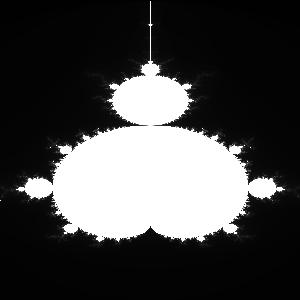
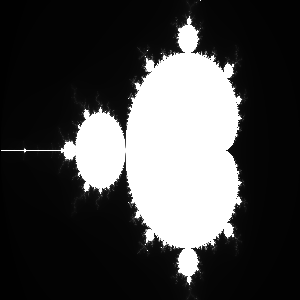
reset all images

Changed region(s): [[0.03, 0.03, 0.96, 0.96]]

diff --git a/src/HW8MandelbrotSet/HW8MandelbrotSet.java b/src/HW8MandelbrotSet/HW8MandelbrotSet.java
@@ -55,10 +55,6 @@ public class HW8MandelbrotSet {
                 int[][] img = new int[height][width]; //[i][j]
 
                 System.out.println("Rendering...");
-                x1 = -2;
-                y1 = 1;
-                x2 = 1;
-                y2 = -1;
 
                 //full image
                 ComplexNumber gen1;
@@ -66,8 +62,10 @@ public class HW8MandelbrotSet {
                     for(double j = 0; j < height; j++) {
 
                         //linear interpolation done depending on the position
-                        //real = 𝑥 = (𝑥1 + s) * (𝑥2 − 𝑥1)
-                        //imag = y = (y1 + s) * (y2 − y1)
+                        x1 = -2;
+                        y1 = 1;
+                        x2 = 1;
+                        y2 = -1;
                         double sx = i/width;
                         double sy = j/width;
                         double real = lerp(x1, x2, sx);
@@ -91,13 +89,17 @@ public class HW8MandelbrotSet {
                     for(double j = 0; j < height; j++) {
 
                         //linear interpolation done depending on the position
+                        x1 = -2;
+                        y1 = 1;
+                        x2 = 1;
+                        y2 = -1;
                         double sx = i/width;
-                        double sy = j/height;
+                        double sy = j/width;
                         double real = lerp(x1, x2, sx);
                         double imag = lerp(y1, y2, sy);
 
-                        gen2 = new ComplexNumber(real, imag); //~1.46 = 1, ~0.37 = 81, 0.35 = 255
-                        img[(int)i][(int)j] = Mandelbrot.inSet(gen2);
+                        gen1 = new ComplexNumber(real, imag); //~1.46 = 1, ~0.37 = 81, 0.35 = 255
+                        img[(int)j][(int)i] = Mandelbrot.inSet(gen1);
                     }
                 }
                 try {
@@ -114,13 +116,17 @@ public class HW8MandelbrotSet {
                     for(double j = 0; j < height; j++) {
 
                         //linear interpolation done depending on the position
+                        x1 = -2;
+                        y1 = 1;
+                        x2 = 1;
+                        y2 = -1;
                         double sx = i/width;
-                        double sy = j/height;
+                        double sy = j/width;
                         double real = lerp(x1, x2, sx);
                         double imag = lerp(y1, y2, sy);
 
-                        gen3 = new ComplexNumber(real, imag); //~1.46 = 1, ~0.37 = 81, 0.35 = 255
-                        img[(int)i][(int)j] = Mandelbrot.inSet(gen3);
+                        gen1 = new ComplexNumber(real, imag); //~1.46 = 1, ~0.37 = 81, 0.35 = 255
+                        img[(int)j][(int)i] = Mandelbrot.inSet(gen1);
                     }
                 }
                 try {
